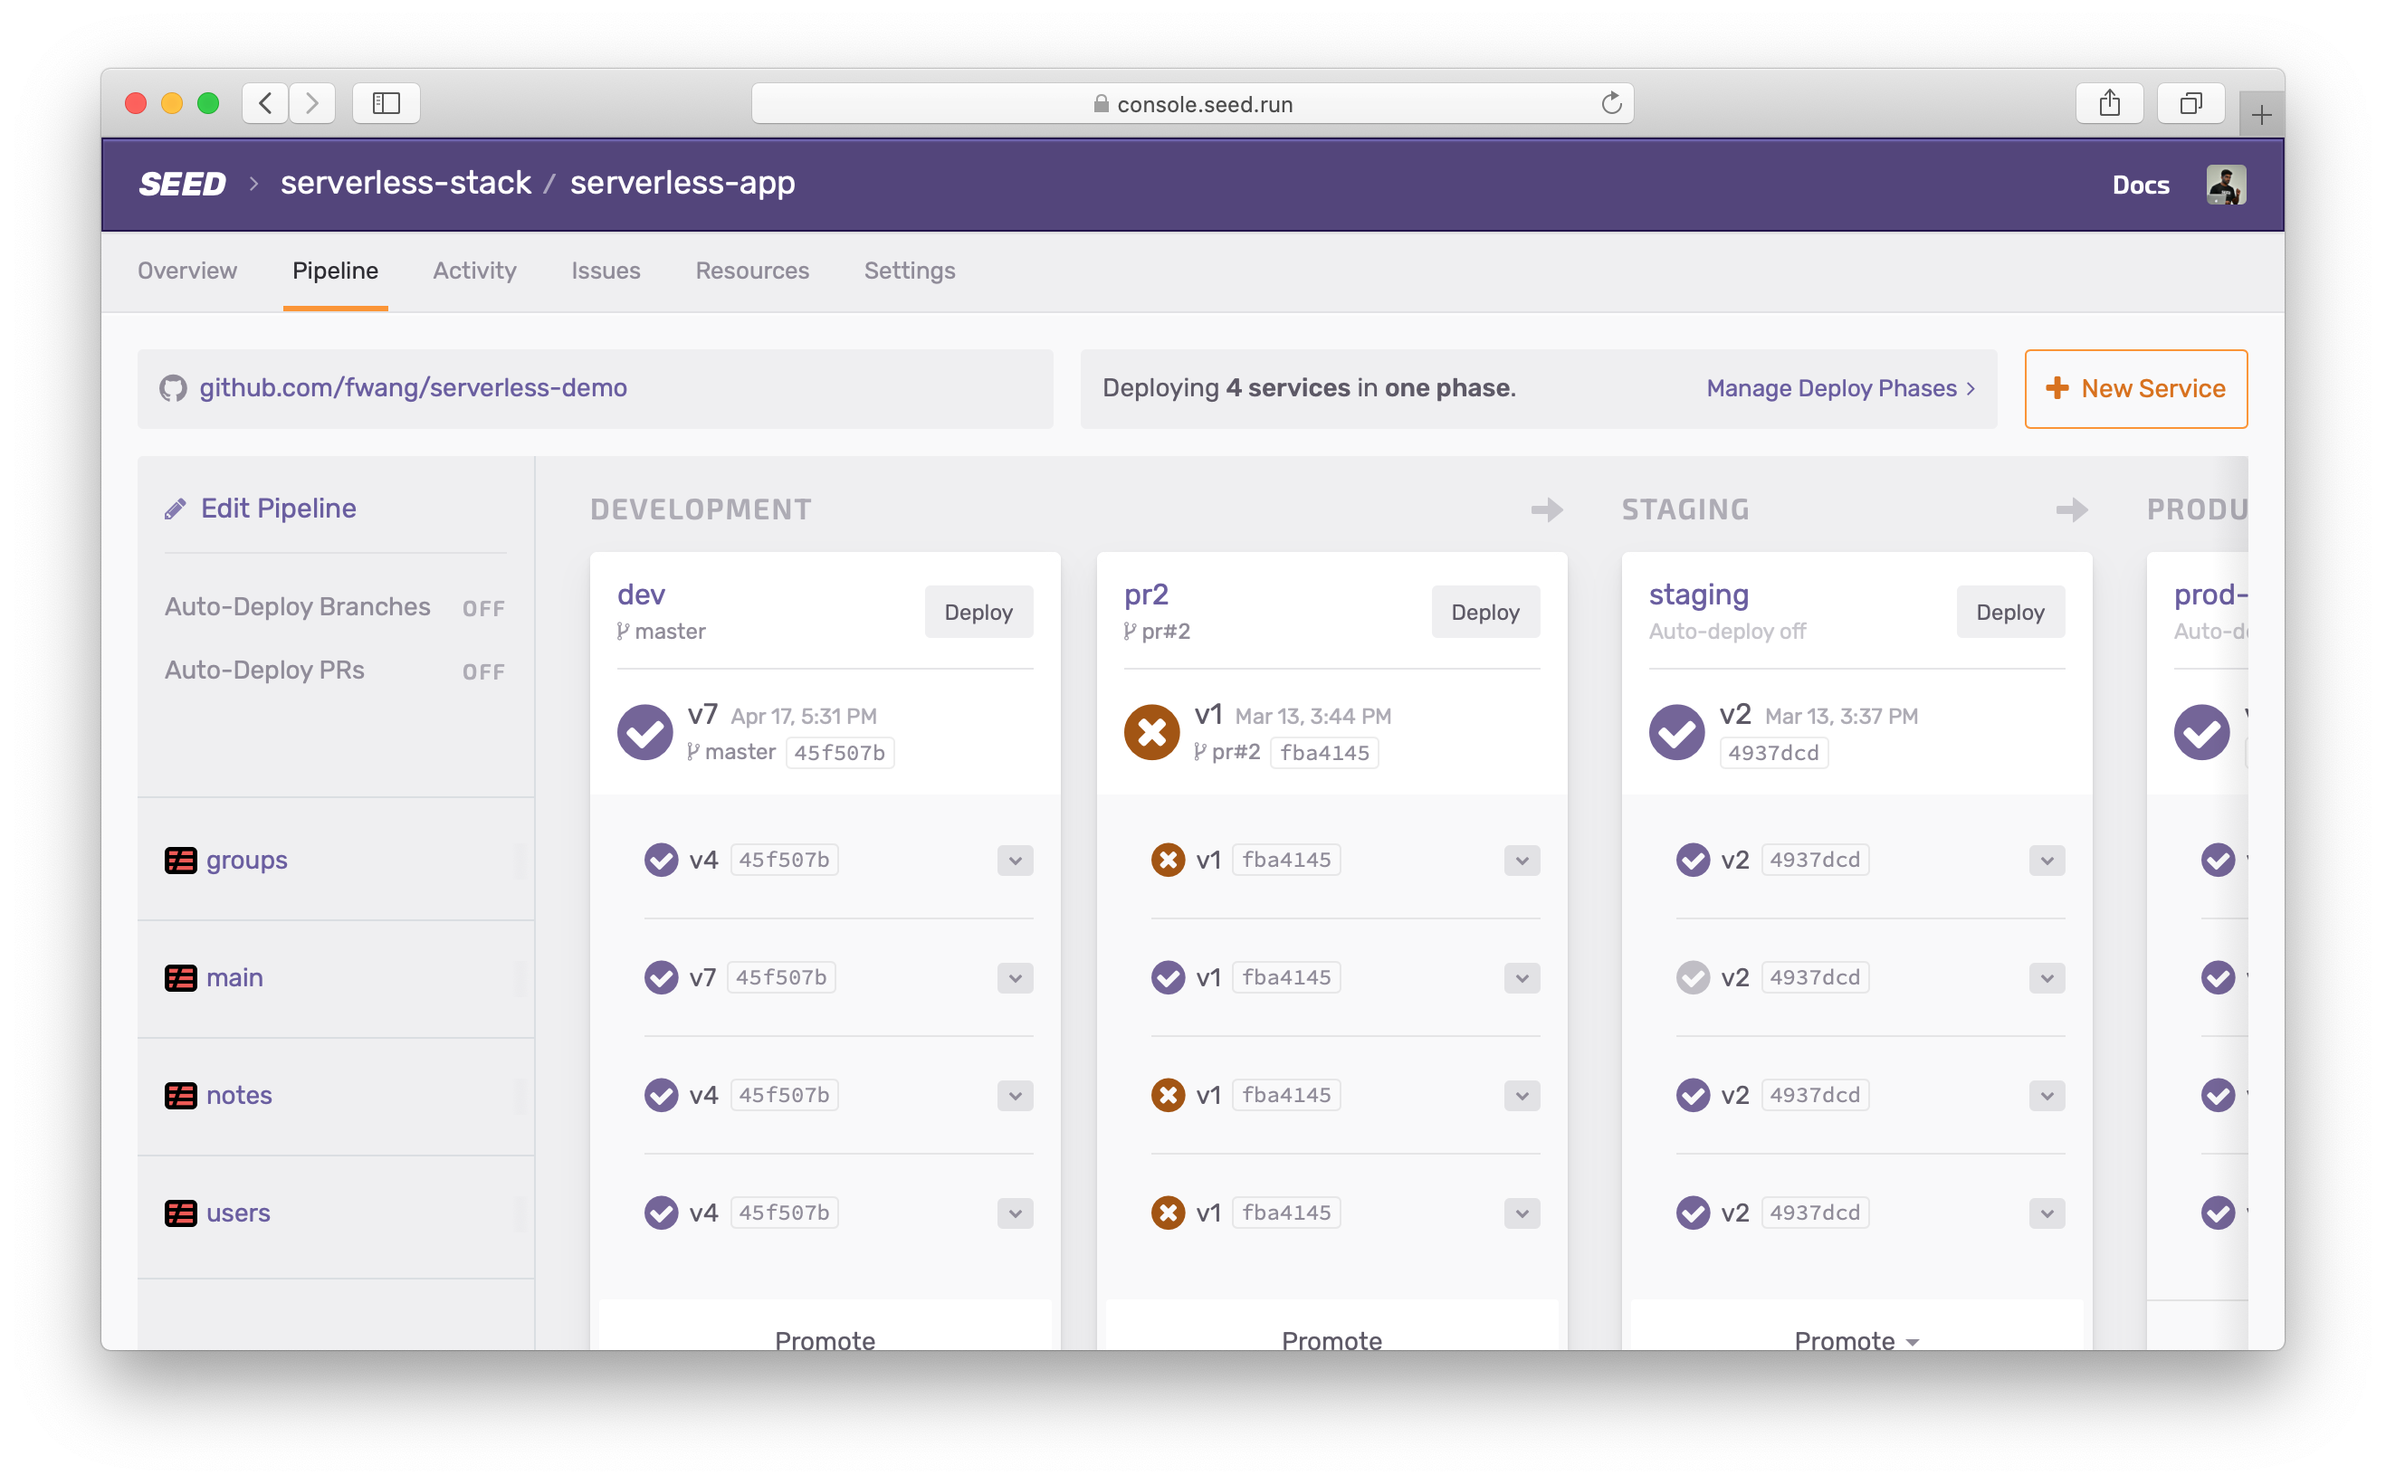
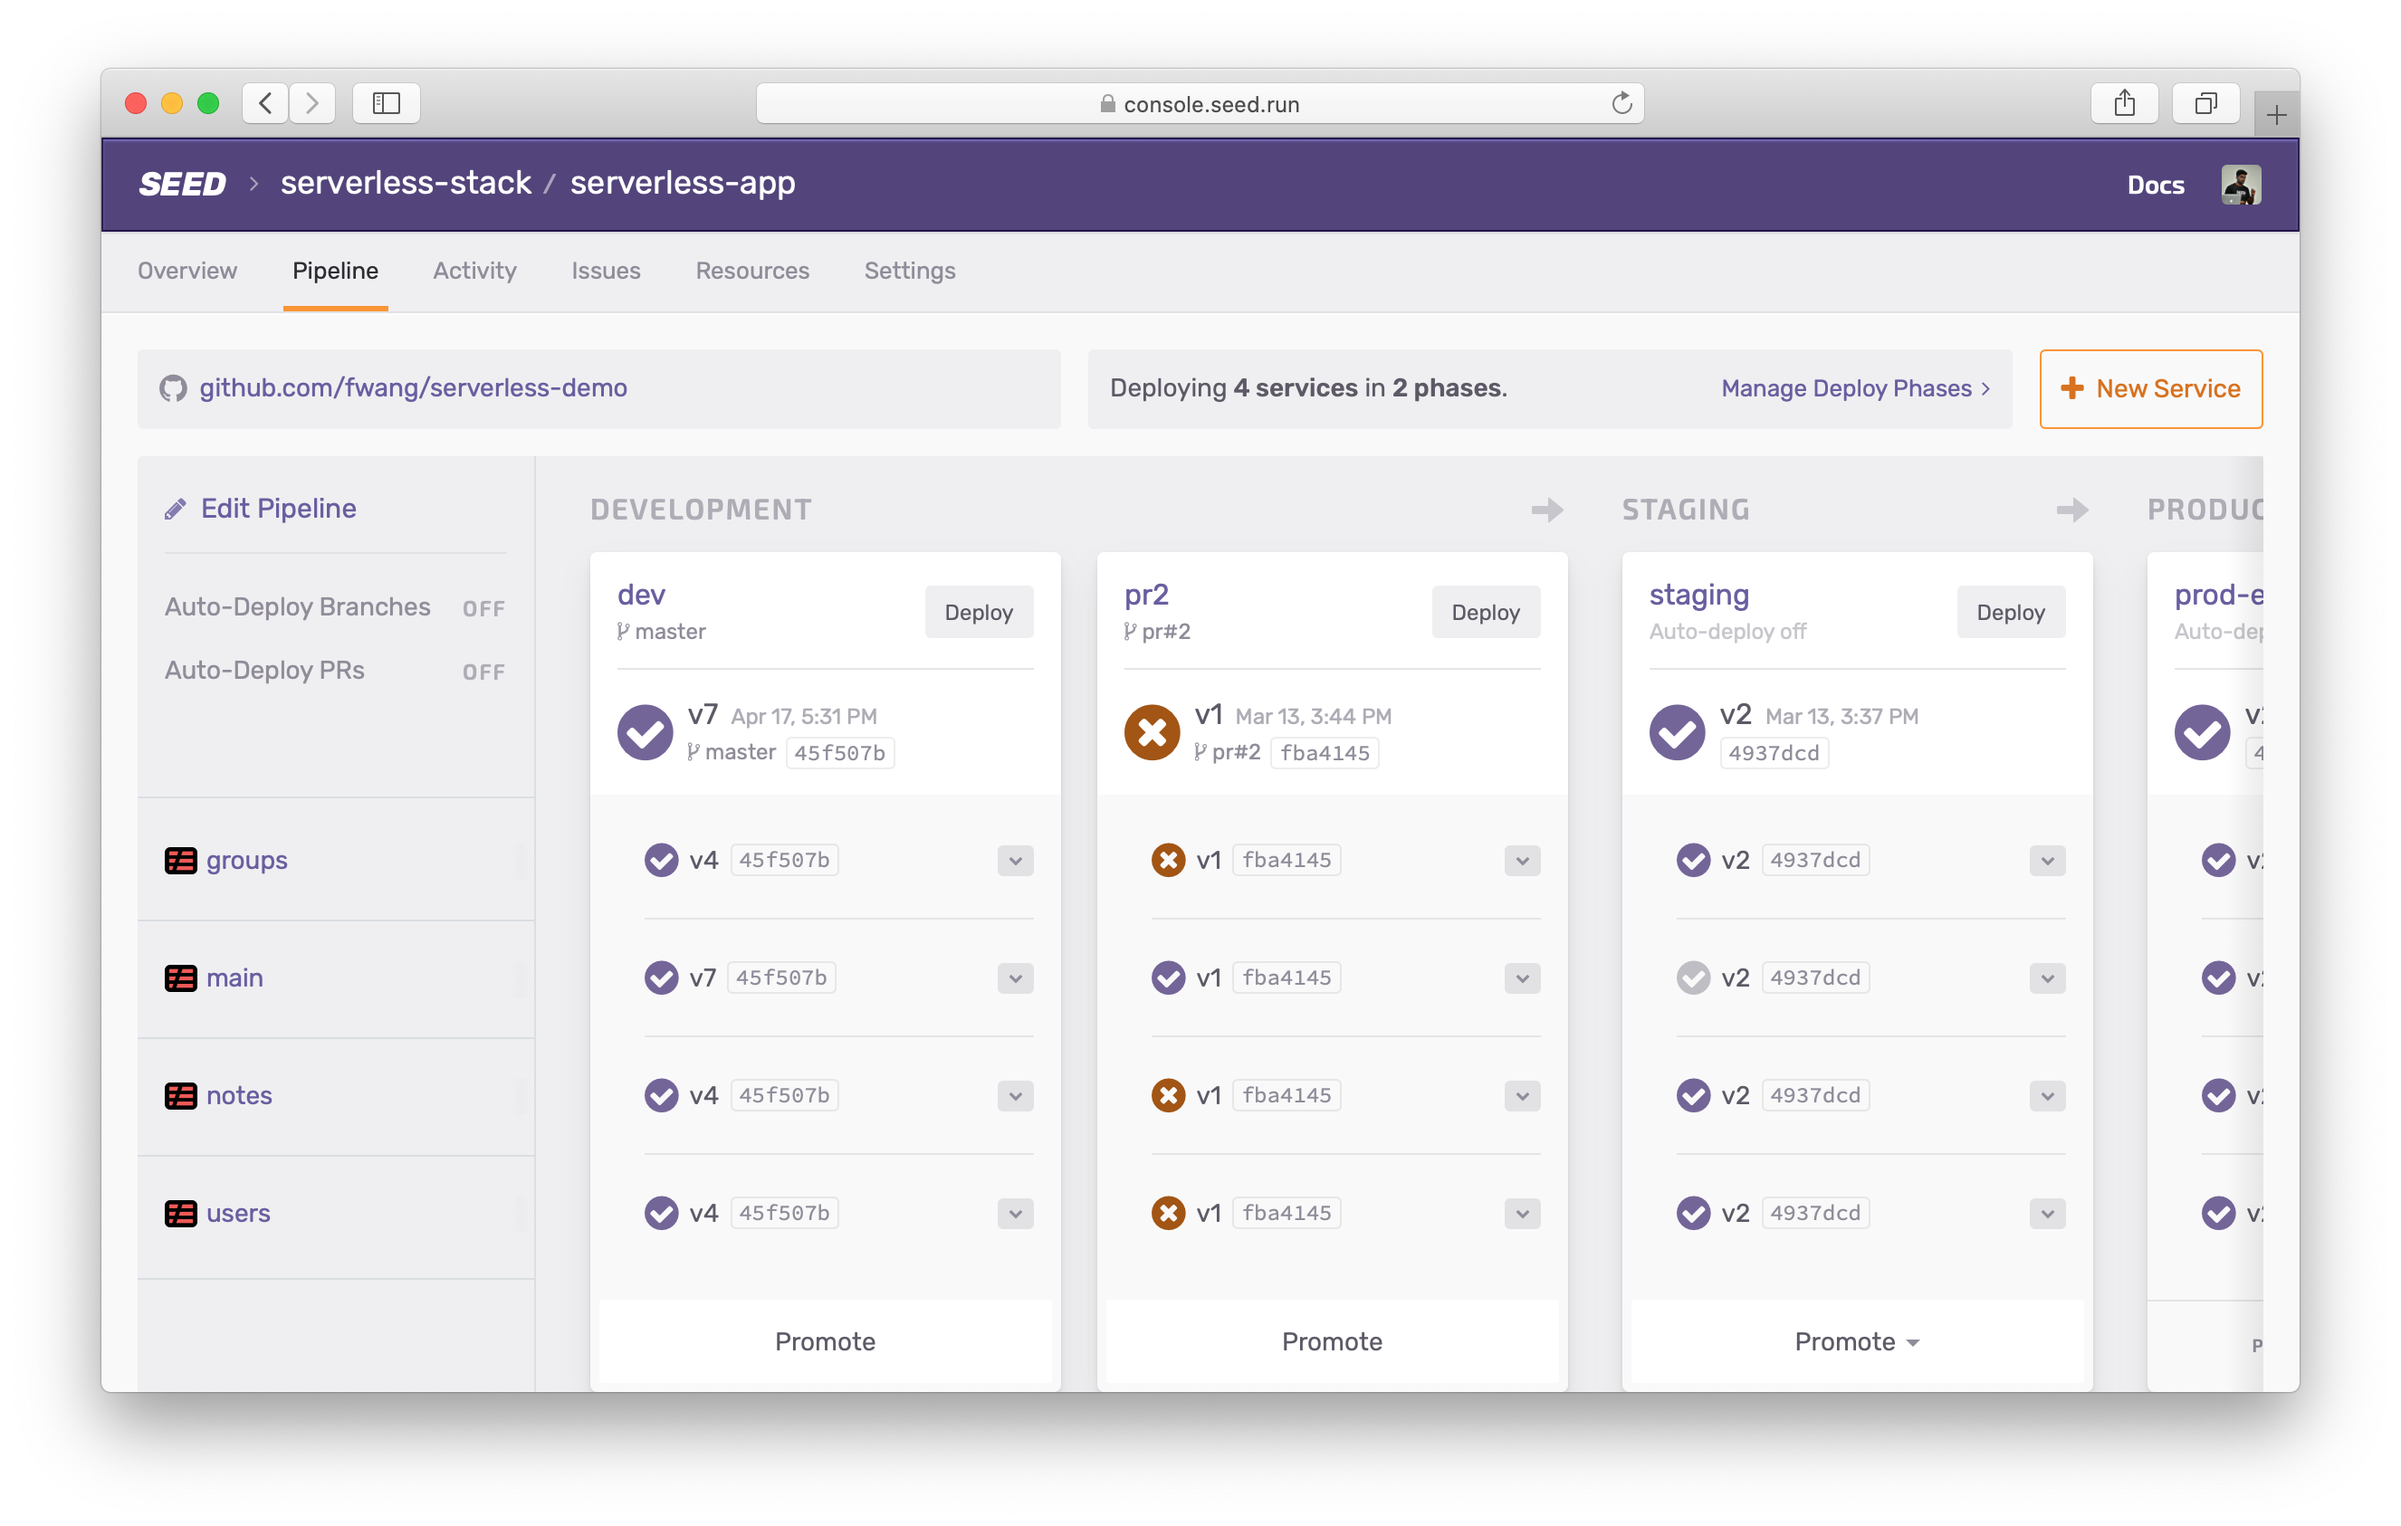
Updating post with post-deploy phase info

diff --git a/_posts/2020-06-10-seed-console-gets-a-ux-update.md b/_posts/2020-06-10-seed-console-gets-a-ux-update.md
@@ -75,7 +75,7 @@ Here you get a clear view of the:
 
 - Current state of the pipeline
 - The Git repo that your app is connected to
-- The [deploy phases]({% link _docs/configuring-deploy-phases.md %}) for your services
+- The deploy phases for your services
 - And the auto-deploy settings
 
 You'll notice that **clicking on the stage** now takes you to **the build activity** for that stage.
@@ -85,6 +85,21 @@ On the other hand, editing the pipeline gives you easy access to everything you 
 ![Edit pipeline page in new design](/assets/blog/seed-console-gets-a-ux-update/edit-pipeline-page-in-new-design.png)
 
 Here clicking on the stages, takes you directly to the settings for that stage.
+
+#### Deploy Phases
+
+A key part of the pipelines in Seed are the [deploy phases]({% link _docs/configuring-deploy-phases.md %}) and [post-deploy phases]({% link _docs/adding-a-post-deploy-phase.md %}). Previously, you had to configure them in separate parts of the console.
+
+This new design brings them together. You can manage your deploy phases right from your pipeline.
+
+![Manage deploy phases in new design](/assets/blog/seed-console-gets-a-ux-update/manage-deploy-phases-in-new-design.png)
+
+On the same screen, you can configure a **post-deploy phase for all your stages**!
+
+![Configure post-deploy phases in new design](/assets/blog/seed-console-gets-a-ux-update/configure-post-deploy-phases-in-new-design.png)
+
+No more having to go from stage to stage to set it up.
+
 
 #### Bonus
 
